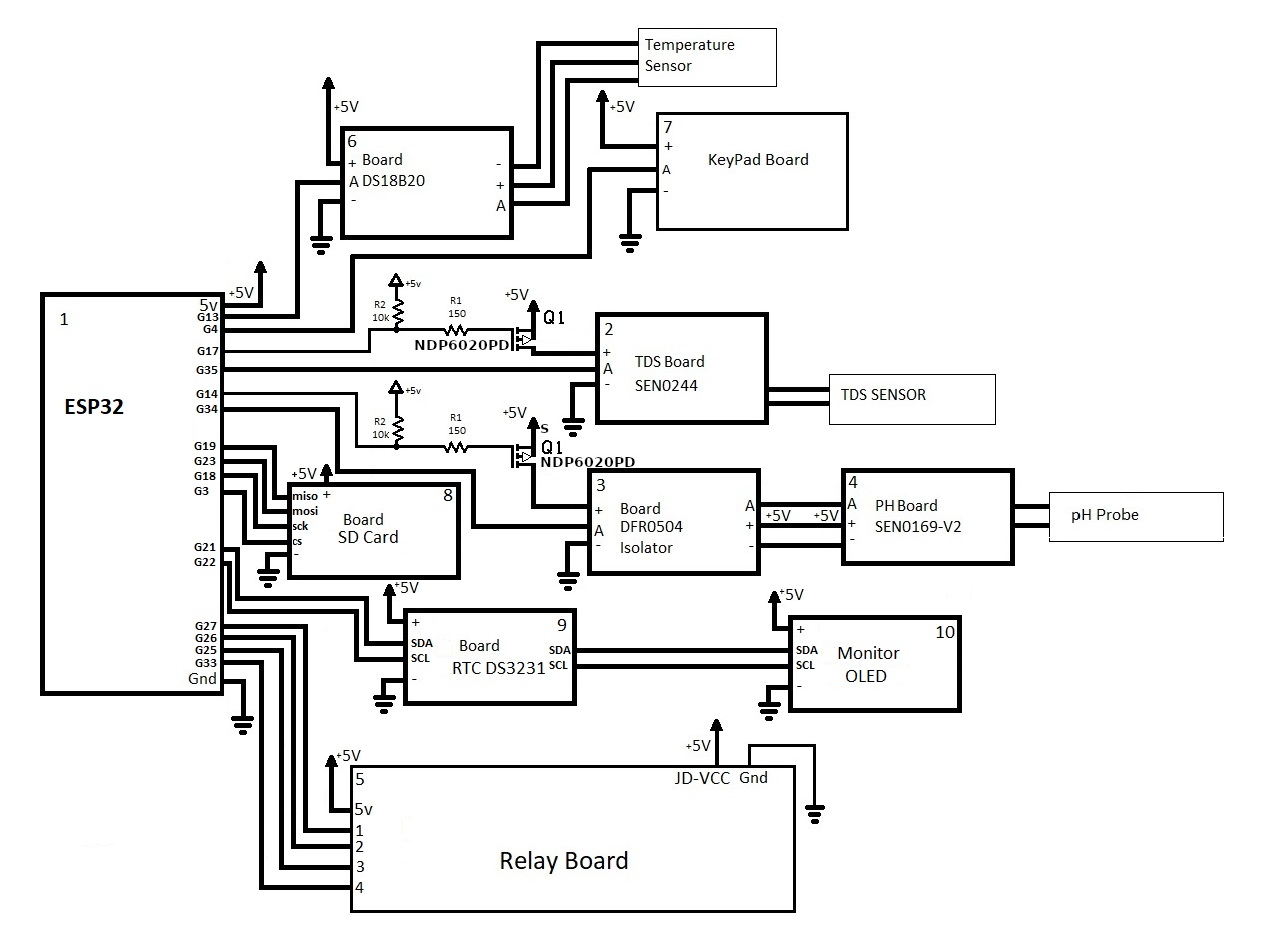
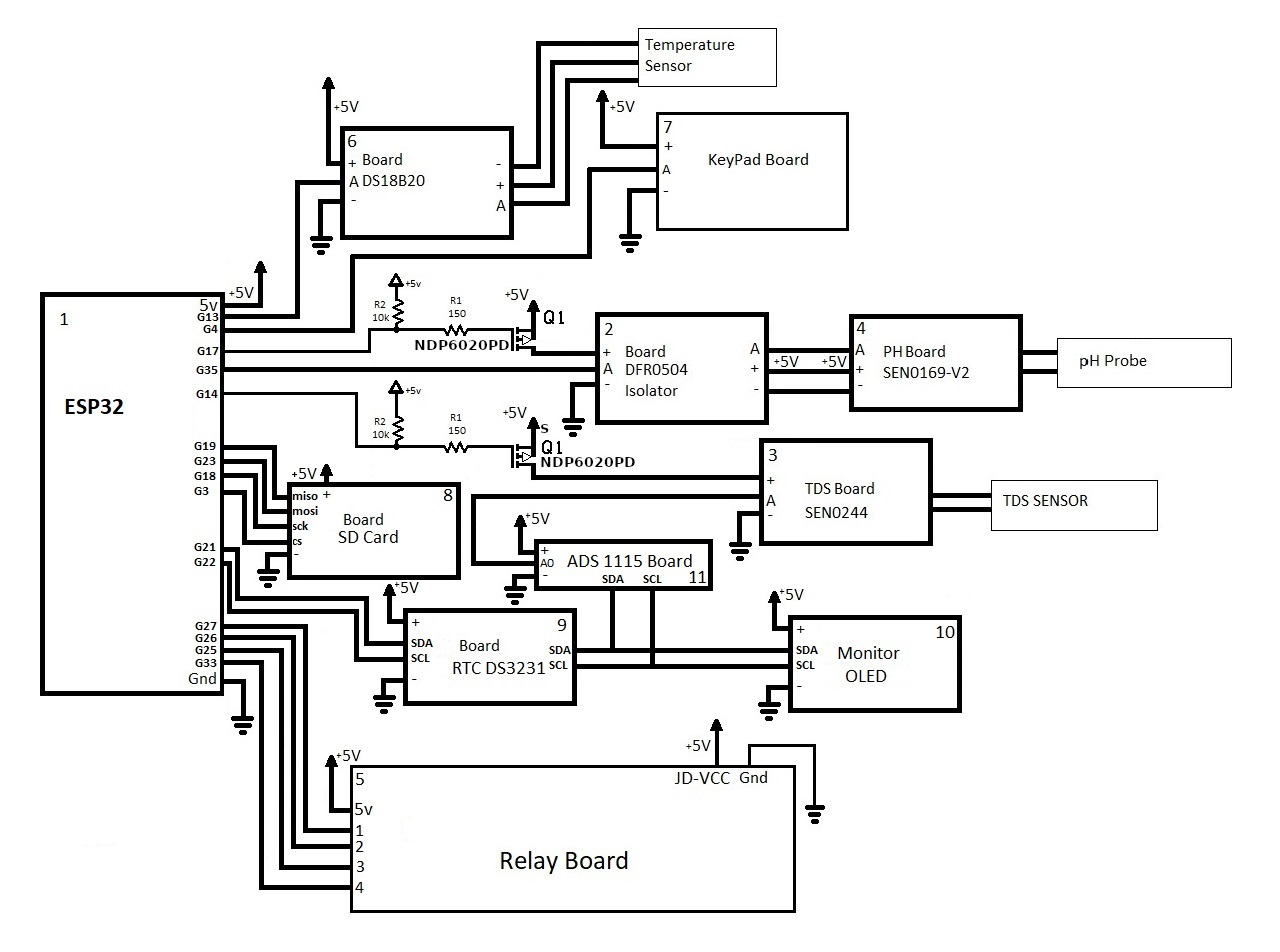
Updating Readme

Changed region(s): [[0.3438, 0.3046, 0.9062, 0.6702], [0.1562, 0.4265, 0.375, 0.5179], [0.4688, 0.3655, 0.5625, 0.4265]]

diff --git a/README.md b/README.md
@@ -2,6 +2,18 @@
 
 <img src="https://github.com/PasqualeAuriemma/Esp32-MyFishTankProject/blob/master/images/Schema.jpg" width=50% height=50%>
 
+- 1 ESP32
+- 2 DFR0504 Isolator Board
+- 3 SEN0244 TDS Board
+- 4 SEN0169-V2 PH Board
+- 5 Relay Board
+- 6 DS18B20 Board
+- 7 KeyPad Board
+- 8 SD Card Board
+- 9 RTC DS3231 Board
+- 10 Monitor OLED
+- 11 ADS1115 Board
+
 <img src="https://github.com/PasqualeAuriemma/Esp32-MyFishTankProject/blob/master/images/Example1.jpg" width=50% height=50%>
 
 
